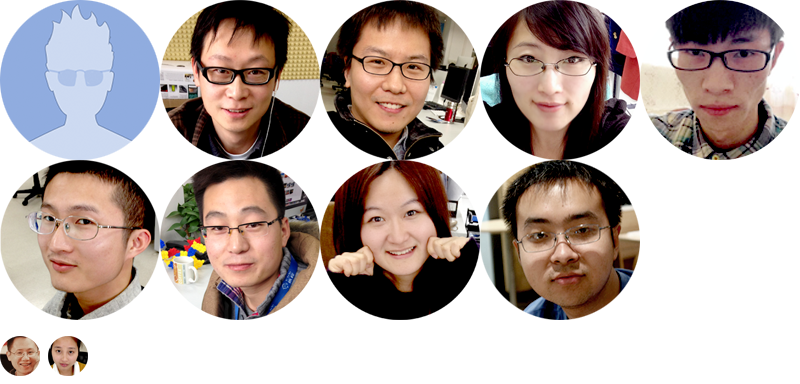
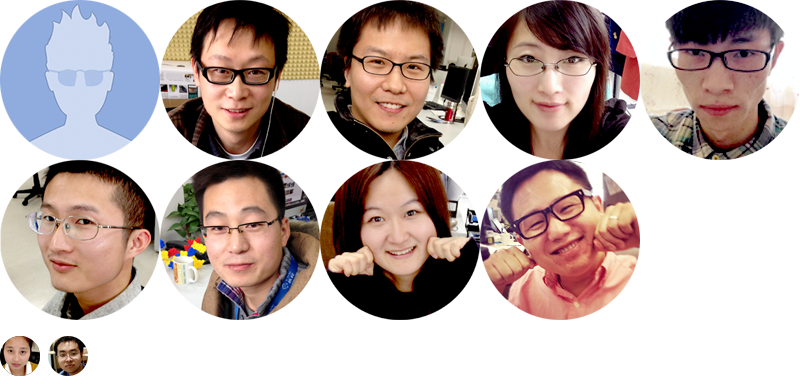
WA样式：热区连线收进box，About头像位置调整

Changed region(s): [[0.5938, 0.4062, 0.8125, 0.8438], [0.0, 0.875, 0.125, 1.0]]

diff --git a/app/about.html b/app/about.html
@@ -20,10 +20,16 @@
 	<div class="about-container">
 		<div class="about-box">
 			<h3 class="box-title">Protoshop，原型商店</h3>
-			<p>Protoshop，Prototype+Shop的合体字，原型商店，高端大气上档次，低调奢华有内涵。只要在Web端导入组件，添加相应的热区设置链接及场景过渡动画并保存，就可以在手机客户端实时加载交互原型并在移动设备上演示。前期快速Review产品需求和交互设计，随时对原型做出修改并重新测试。</p>
+			<p>Protoshop，Prototype+Shop的合体字，原型商店。在Web端导入组件，添加相应的热区设置链接及场景过渡动画并保存，就可以在手机客户端实时加载交互原型并在移动设备上演示，快速Review产品需求和交互设计。Protoshop通过Python和lua语言打通Web和Native，10分钟即可将平面设计稿打造成可以在手机上流畅展示的APP原型，支持项目缓存，支持iOS和Android平台。</p>
 		</div>
 		<div class="about-team">
 			<ul class="team-member">
+				<li>
+					<div class="person-avatar"></div>
+					<div class="person-name">贺炜</div>
+					<div class="person-job">CtripWXD Director</div>
+					<a href="###" class="person-weibo">@weihe可以懂</a>
+				</li>
 				<li>
 					<div class="person-avatar"></div>
 					<div class="person-name">郭磊</div>
@@ -63,34 +69,28 @@
 					<div class="person-job">Design Consultant</div>
 					<a href="###" class="person-weibo">@iflea</a>
 				</li>
-				<li>
-					<div class="person-avatar"></div>
-					<div class="person-name">刘洋河</div>
-					<div class="person-job">WebApp JS Developer</div>
-					<a href="###" class="person-weibo">不编程不舒服斯基</a>
-				</li>
 			</ul>
 			<div class="team-nonmember">
 				<div class="team-title">感谢以下为Protoshop做出贡献的同事：</div>
 				<ul>
 					<li>
 						<span class="person-avatar"></span>
-						<strong class="person-name">贺炜</strong>
-						<span class="person-job">CtripWXD Director</span>
-						<a href="###" class="person-weibo">@weihe可以懂</a>
-					</li>
-					<li>
-						<span class="person-avatar"></span>
 						<strong class="person-name">朱仙琴</strong>
 						<span class="person-job">WebApp CSS Developer</span>
 						<a href="###" class="person-weibo">@happy奔向未来</a>
+					</li>
+					<li>
+						<span class="person-avatar"></span>
+						<strong class="person-name">刘洋河</strong>
+						<span class="person-job">WebApp JS Developer</span>
+						<a href="###" class="person-weibo">不编程不舒服斯基</a>
 					</li>
 				</ul>
 			</div>
 		</div>
 		<div class="about-box">
 			<h3 class="box-title">下载APP</h3>
-			<p><img src="images/qr-protoshop.png" /></p>
+			<p><img src="images/qr-protoshop.png" width="226" /></p>
 			<p>注：移动设备请先连接内网Wifi: DEV</p>
 		</div>
 		<div class="about-box">

diff --git a/app/styles/main.css b/app/styles/main.css
@@ -59,7 +59,7 @@ i { font-style: normal; }
 .i5 .scene { width: 320px; height: 568px; -webkit-transform: translate(-220px, -284px); transform: translate(-220px, -284px); }
 .s4 .scene { width: 400px; height: 640px; -webkit-transform: translate(-259px, -323px); transform: translate(-220px, -284px); }
 .scene-bg { width: 100%; height: 100%; position: absolute; z-index: 0; pointer-events: none }
-.hotspot { background-color: rgba(255, 135, 124, 0.5); border: 1px solid #b0b0b0; position: absolute; }
+.hotspot { background-color: rgba(255, 135, 124, 0.5); border: 1px solid #b0b0b0; position: absolute; box-sizing: border-box; }
 .anchor i { position: absolute; display: inline-block; width: 10px; height: 10px; margin: -6px; border-radius: 50%; background-color: #fff; border: 1px solid #000; }
 .anchor i:nth-child(1) { left: 0; top: 50%; cursor: w-resize; }
 .anchor i:nth-child(2) { left: 50%; top: 0; cursor: n-resize; }
@@ -187,14 +187,14 @@ i { font-style: normal; }
 .team-member { overflow: hidden; }
 .team-member li { float: left; width: 240px; height: 264px; padding: 10px 0; text-align: center; }
 .team-member .person-avatar { width: 160px; height: 160px; margin: 0 auto 20px; background-color: #ddd; background-image: url(../images/un-team.png); background-repeat: no-repeat; border-radius: 50%; }
-.team-member li:nth-child(1) .person-avatar { background-position: -160px 0; }
-.team-member li:nth-child(2) .person-avatar { background-position: -320px 0; }
-.team-member li:nth-child(3) .person-avatar { background-position: -480px 0; }
-.team-member li:nth-child(4) .person-avatar { background-position: -640px 0; }
-.team-member li:nth-child(5) .person-avatar { background-position: 0 -160px; }
-.team-member li:nth-child(6) .person-avatar { background-position: -160px -160px; }
-.team-member li:nth-child(7) .person-avatar { background-position: -320px -160px; }
-.team-member li:nth-child(8) .person-avatar { background-position: -480px -160px; }
+.team-member li:nth-child(2) .person-avatar { background-position: -160px 0; }
+.team-member li:nth-child(3) .person-avatar { background-position: -320px 0; }
+.team-member li:nth-child(4) .person-avatar { background-position: -480px 0; }
+.team-member li:nth-child(5) .person-avatar { background-position: -640px 0; }
+.team-member li:nth-child(6) .person-avatar { background-position: 0 -160px; }
+.team-member li:nth-child(7) .person-avatar { background-position: -160px -160px; }
+.team-member li:nth-child(8) .person-avatar { background-position: -320px -160px; }
+.team-member li:nth-child(1) .person-avatar { background-position: -480px -160px; }
 .person-name { font-size: 20px; }
 .person-job { font-size: 12px; color: rgba(0,0,0,0.6); }
 .person-weibo { padding-left: 20px; background: url(../images/icon-weibo.png) no-repeat; color: #014eb6; }

diff --git a/app/scripts/app.js b/app/scripts/app.js
@@ -1,6 +1,6 @@
 'use strict';
 
-var isBeta = /(beta|:9999)/.test(window.location.href);
+var isBeta = /(beta)/.test(window.location.href);
 
 angular.module('toHELL', [
   'btford.modal',
